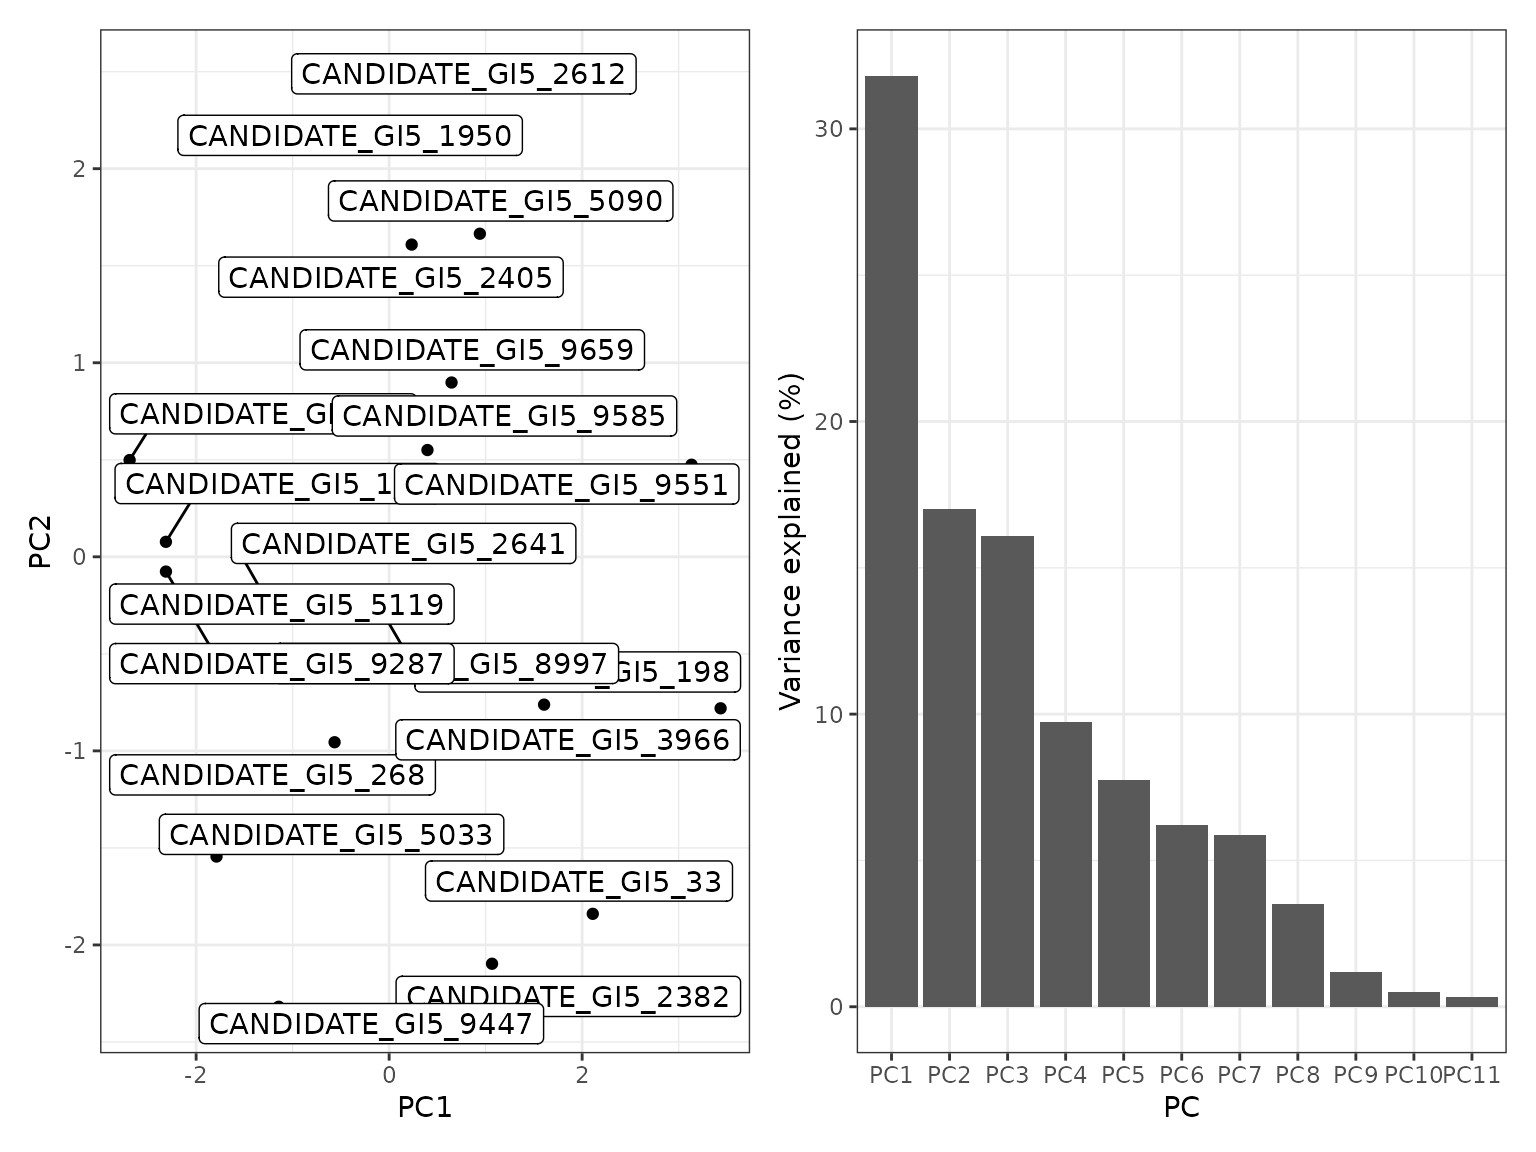
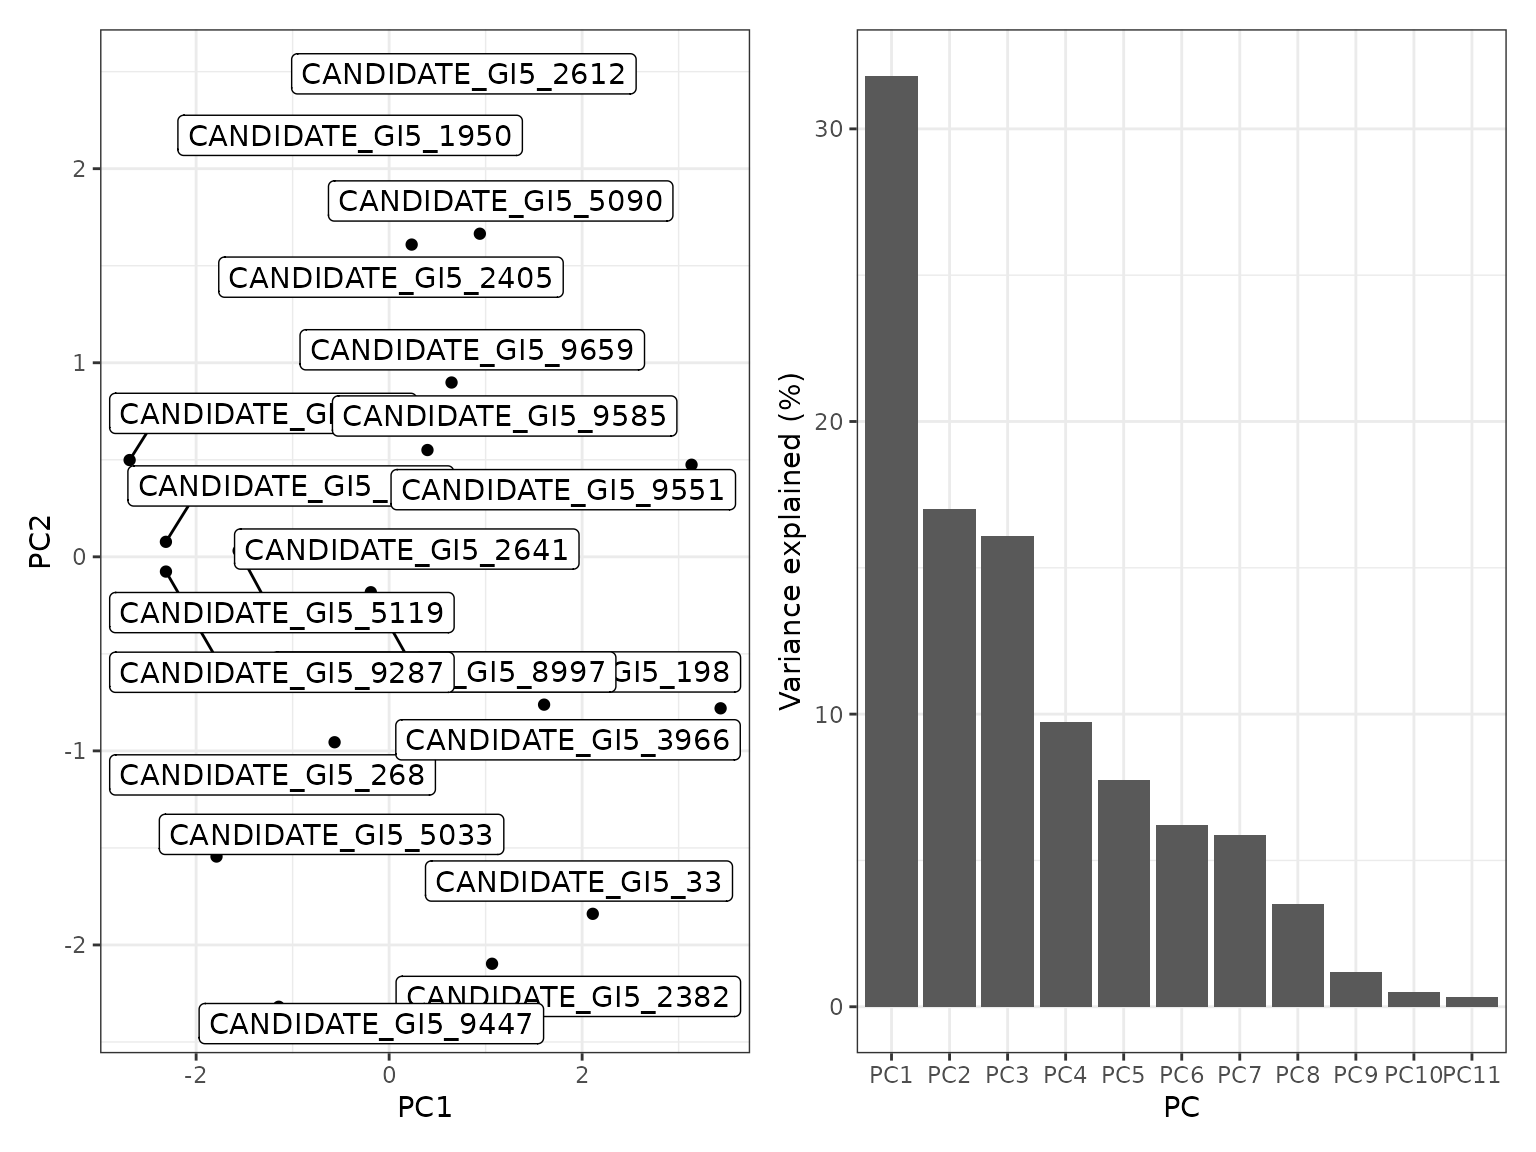
Deploying to gh-pages from @ nickfountainjones/mrIML@ca4554c8bda1735fa3e3e6793a95935aacb09e4e 🚀

Changed region(s): [[0.0625, 0.375, 0.5, 0.625]]

diff --git a/articles/Swine biosecurity.html b/articles/Swine biosecurity.html
@@ -193,7 +193,7 @@ how this dependence changes over different observed values.</p>
 <span><span class="co">#plot partial dependence profiles</span></span>
 <span><span class="fu"><a href="https://rdrr.io/r/graphics/plot.default.html" class="external-link">plot</a></span><span class="op">(</span><span class="fu"><a href="https://rdrr.io/pkg/flashlight/man/light_profile.html" class="external-link">light_profile</a></span><span class="op">(</span><span class="va">fl</span>, v <span class="op">=</span> <span class="st">"Premises_in_3_miles"</span><span class="op">)</span><span class="op">)</span> <span class="op">+</span></span>
 <span>  <span class="fu"><a href="https://ggplot2.tidyverse.org/reference/ggtheme.html" class="external-link">theme_bw</a></span><span class="op">(</span><span class="op">)</span></span></code></pre></div>
-<p><img src="../../../../../../../tmp/RtmpHJMvFI/articles/reference/figures/pdp-1.png" class="r-plt" alt="" width="768" style="display: block; margin: auto;">
+<p><img src="../../../../../../../tmp/RtmpLiFEY8/articles/reference/figures/pdp-1.png" class="r-plt" alt="" width="768" style="display: block; margin: auto;">
 ### Benchmarking: predicted risk</p>
 <p>The following function allows you to visualize and compare predicted
 risk among and within groups</p>

diff --git a/articles/Swine biosecurity.md b/articles/Swine biosecurity.md
@@ -128,7 +128,7 @@ plot(light_profile(fl, v = "Premises_in_3_miles")) +
   theme_bw()
 ```
 
-![](../../../../../../../tmp/RtmpHJMvFI/articles/reference/figures/pdp-1.png)
+![](../../../../../../../tmp/RtmpLiFEY8/articles/reference/figures/pdp-1.png)
 \### Benchmarking: predicted risk
 
 The following function allows you to visualize and compare predicted